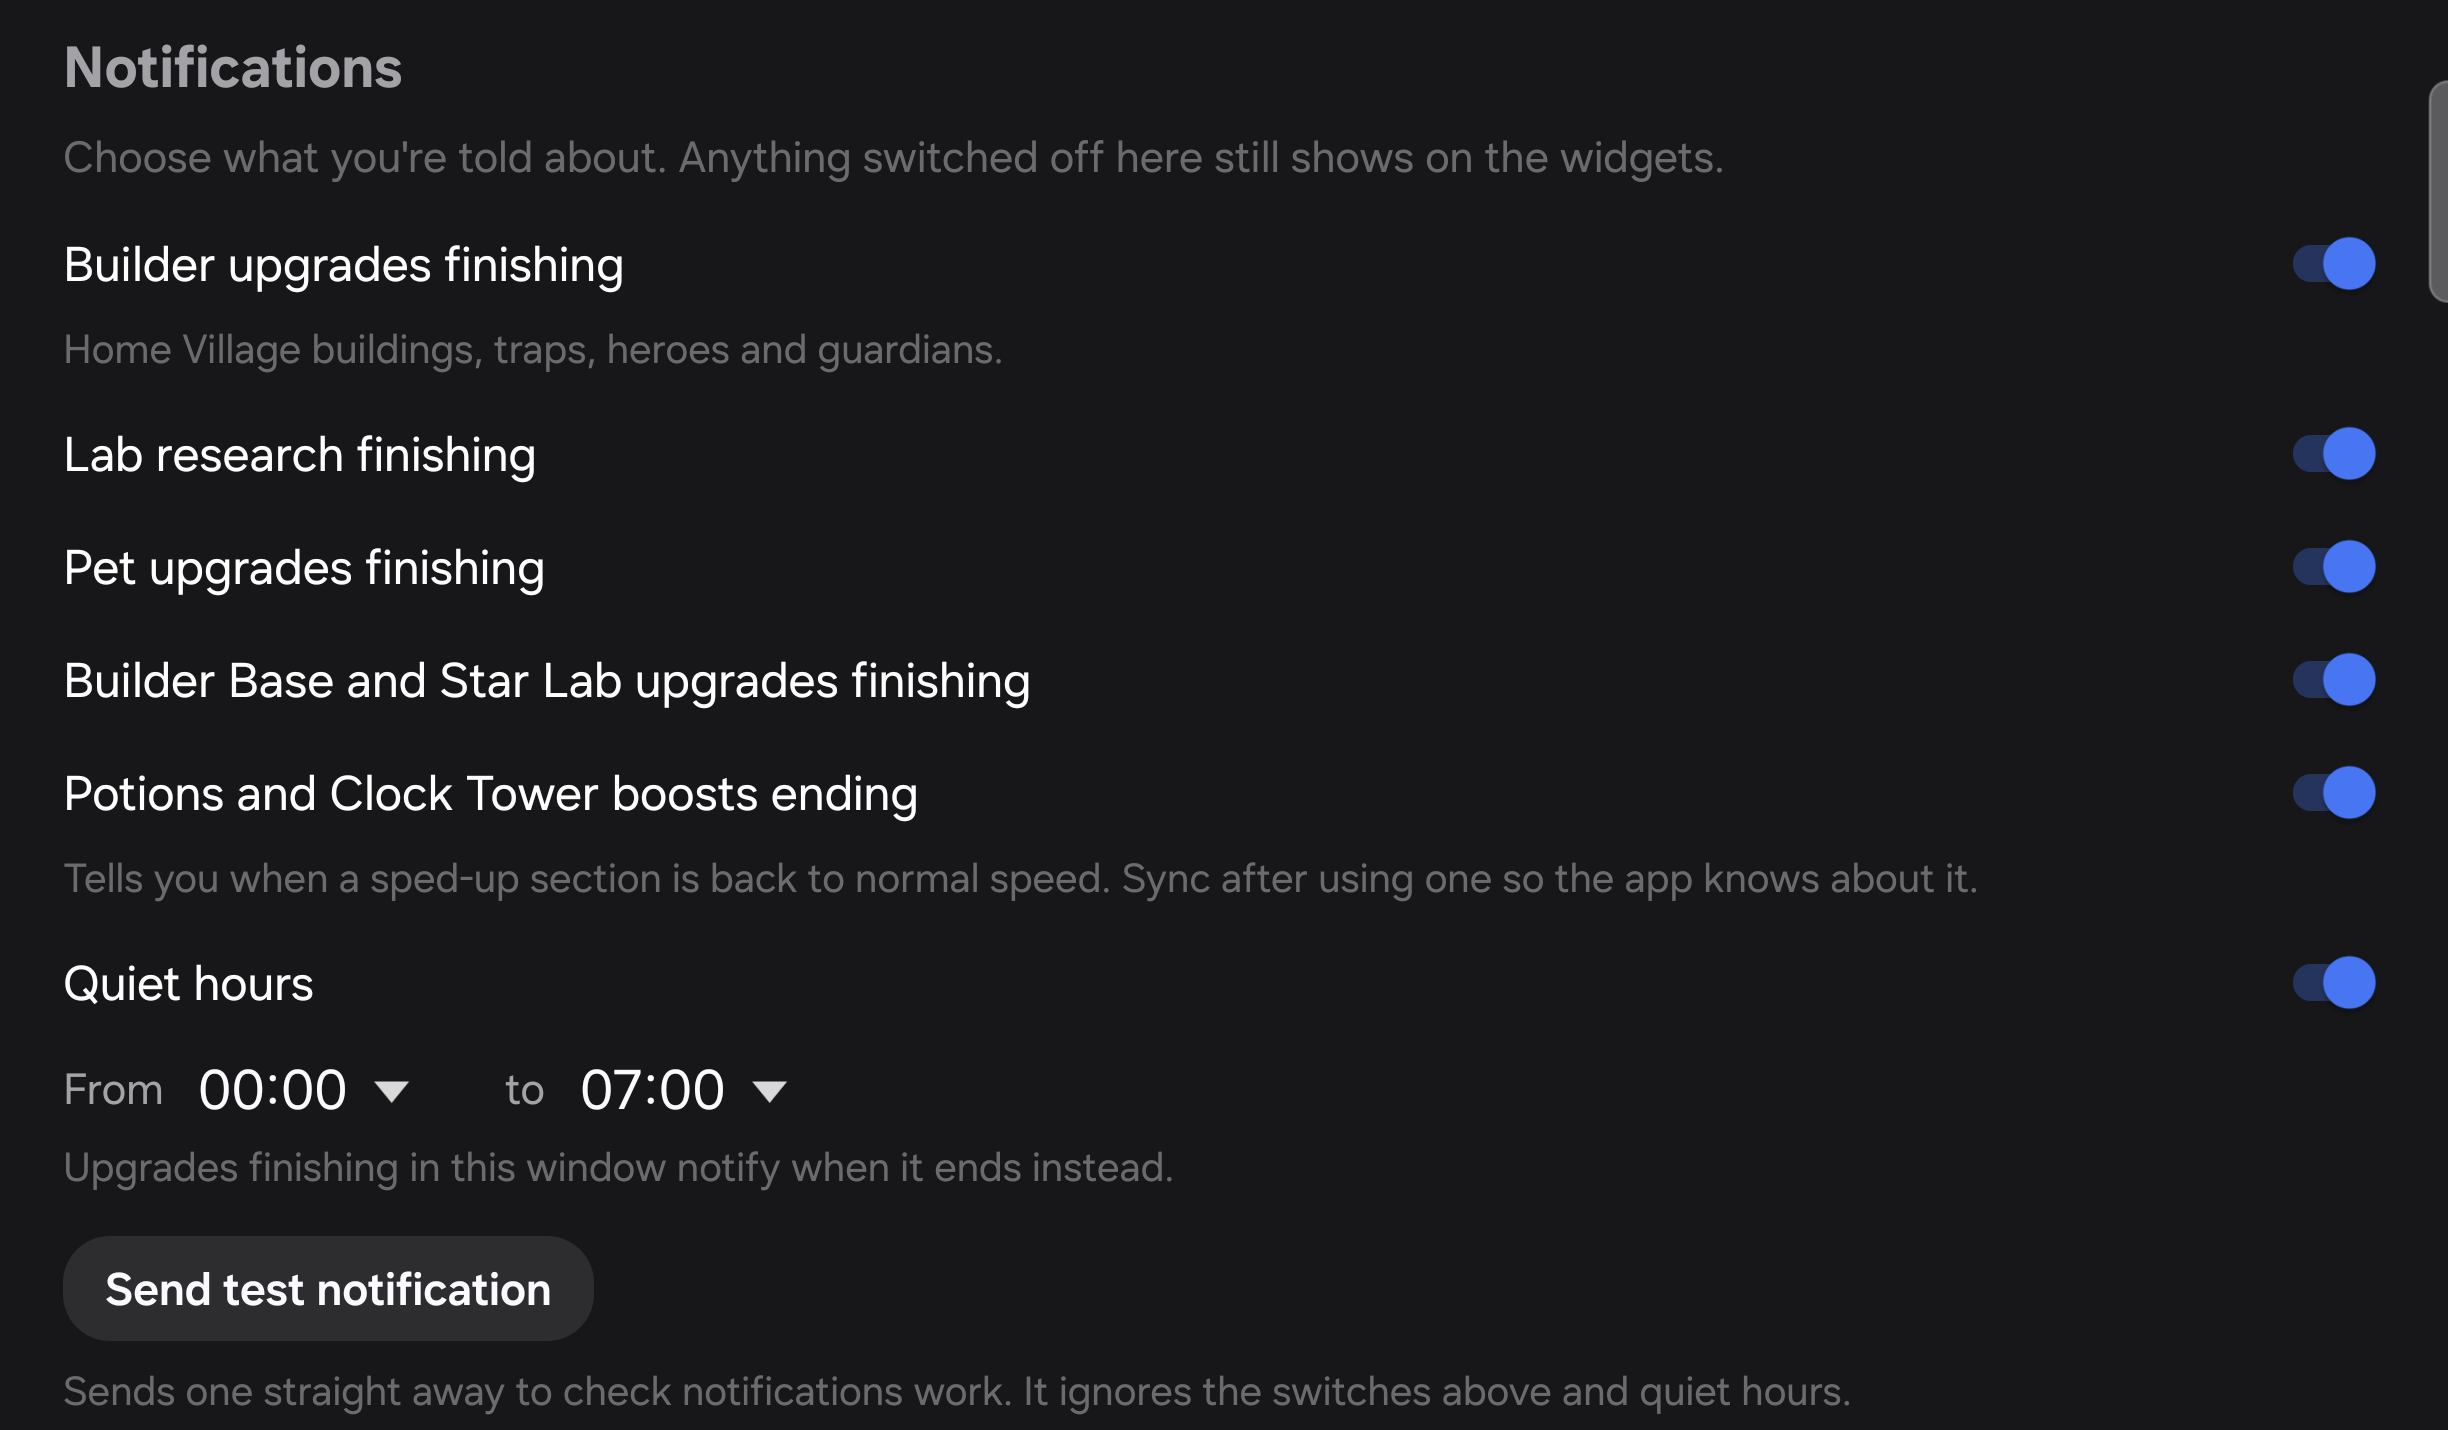
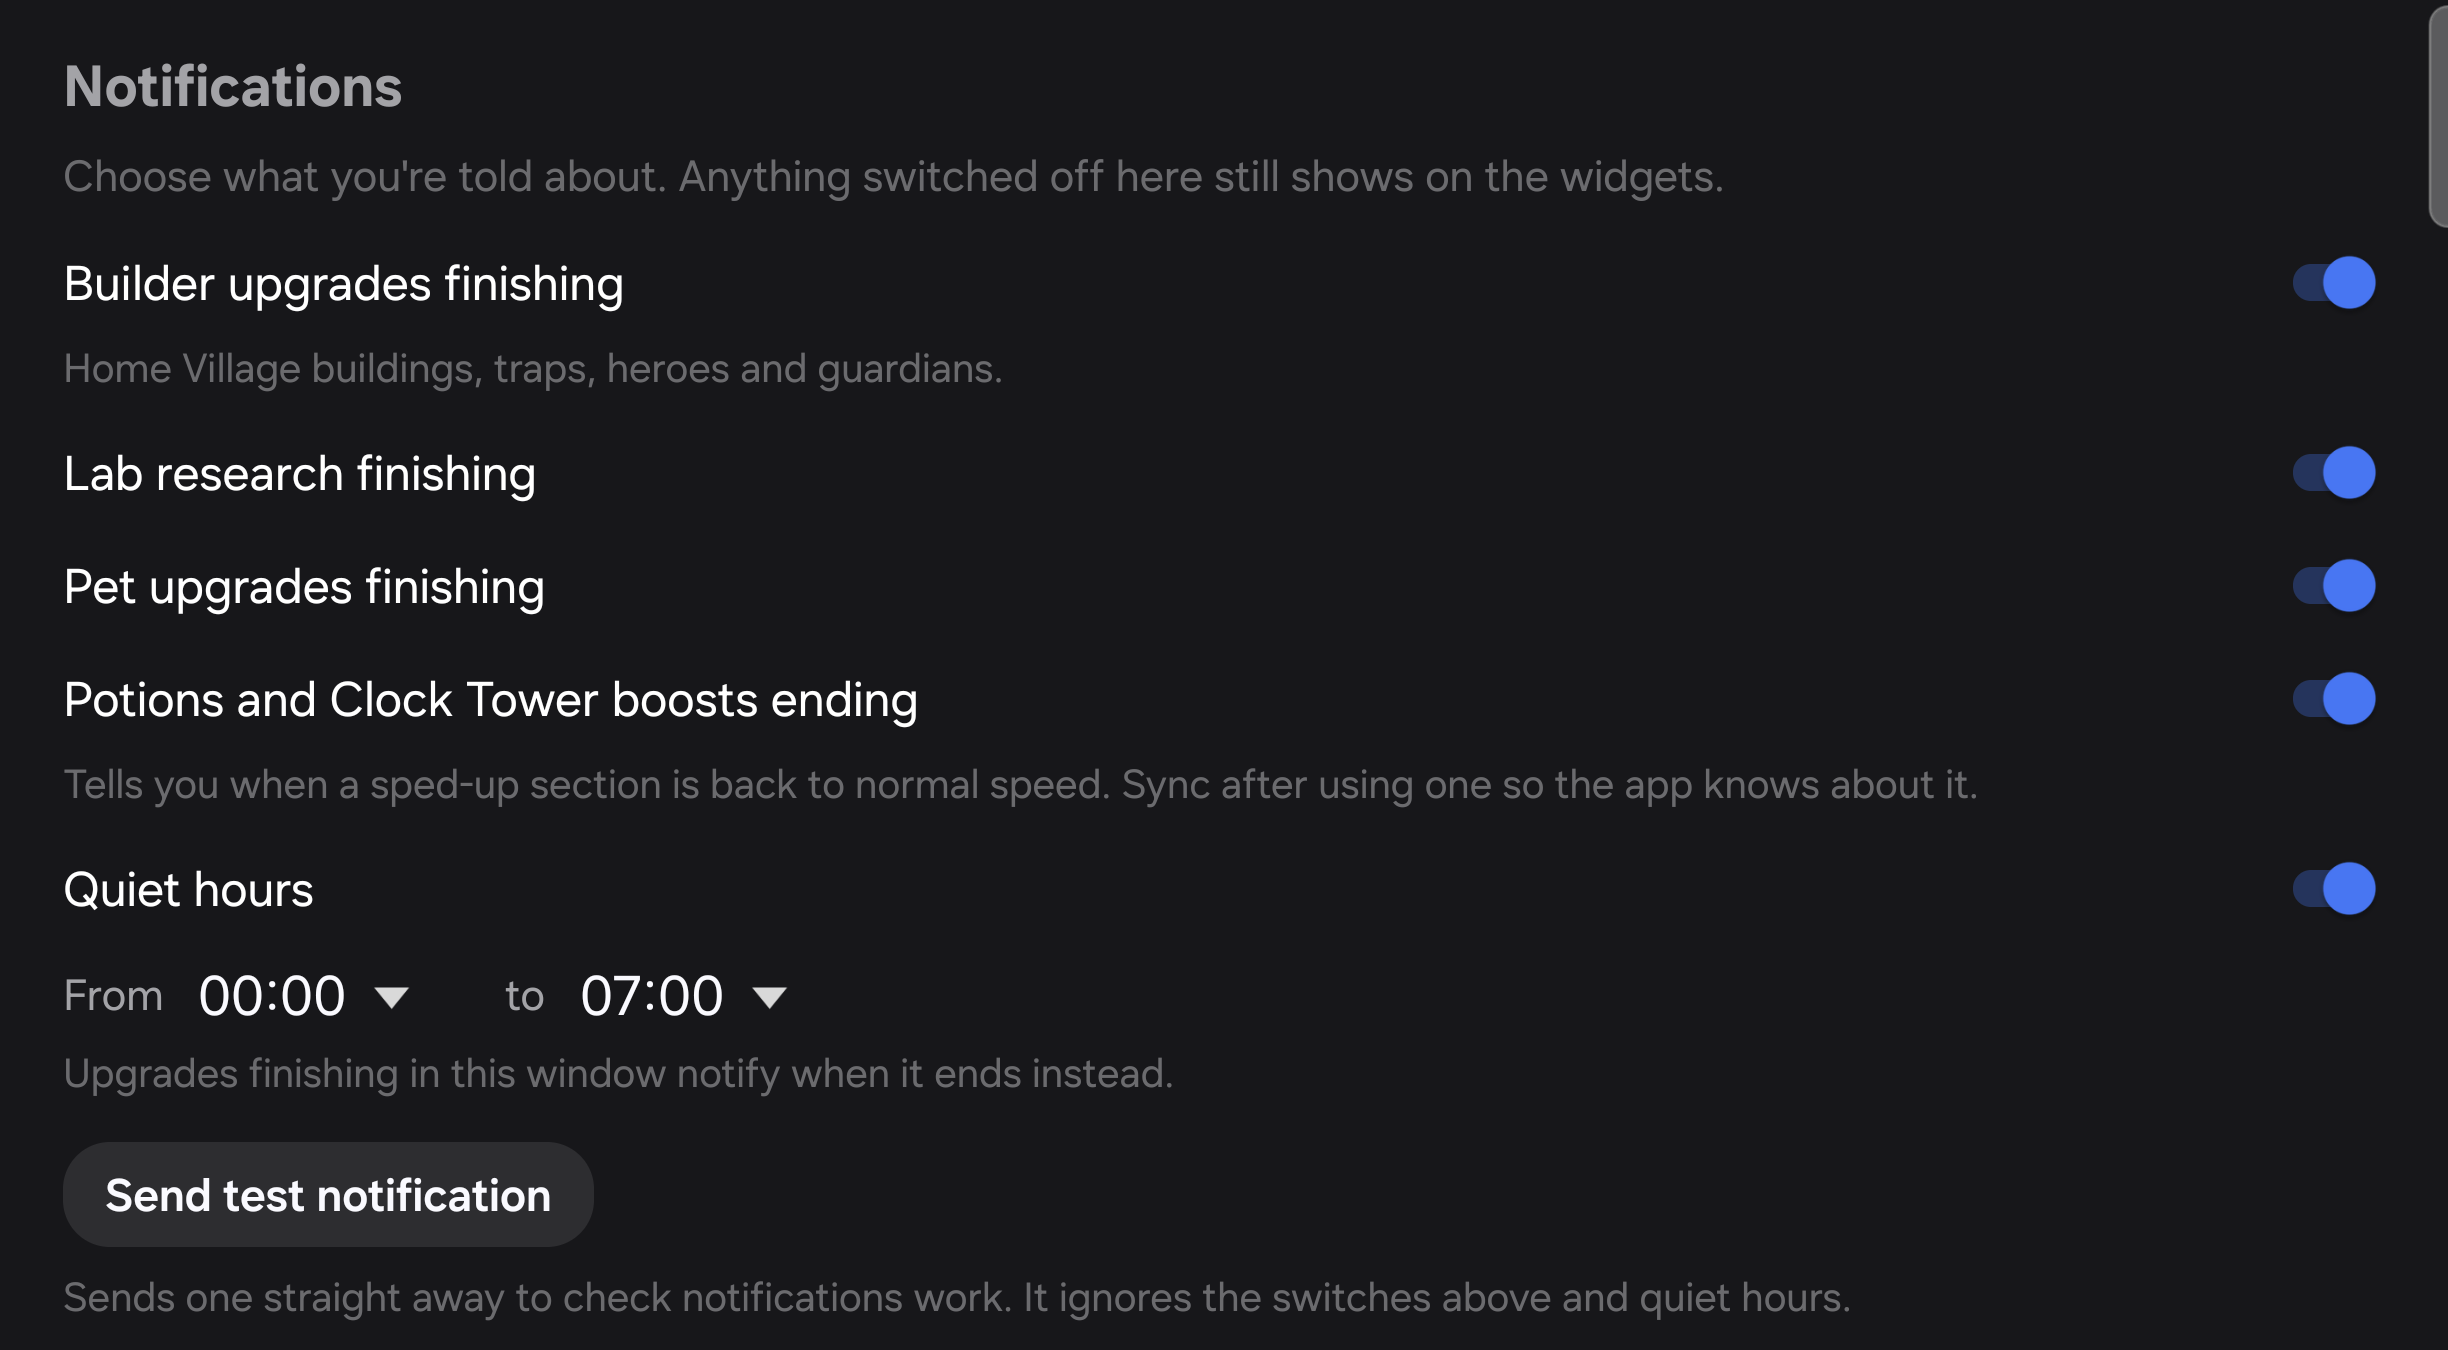
Update settings screenshots for the Builder Base section

diff --git a/README.md b/README.md
@@ -123,6 +123,8 @@ Open settings with the **⚙ Settings** button on the widget, by long-pressing a
 
 Under **Builder Base**:
 
+<p align="center"><img src="docs/screenshots/settings-builder-base.png" alt="Builder Base settings with switches to show Builder Base and Star Lab upgrades and to be notified when they finish" width="600"></p>
+
 - **Show Builder Base and Star Lab:** adds these upgrades to the widgets while any are running, and a Maxed line on the full widget once everything is at its top level.
 - **Notify me when these upgrades finish:** turning this off doesn't hide them from the widgets.
 
